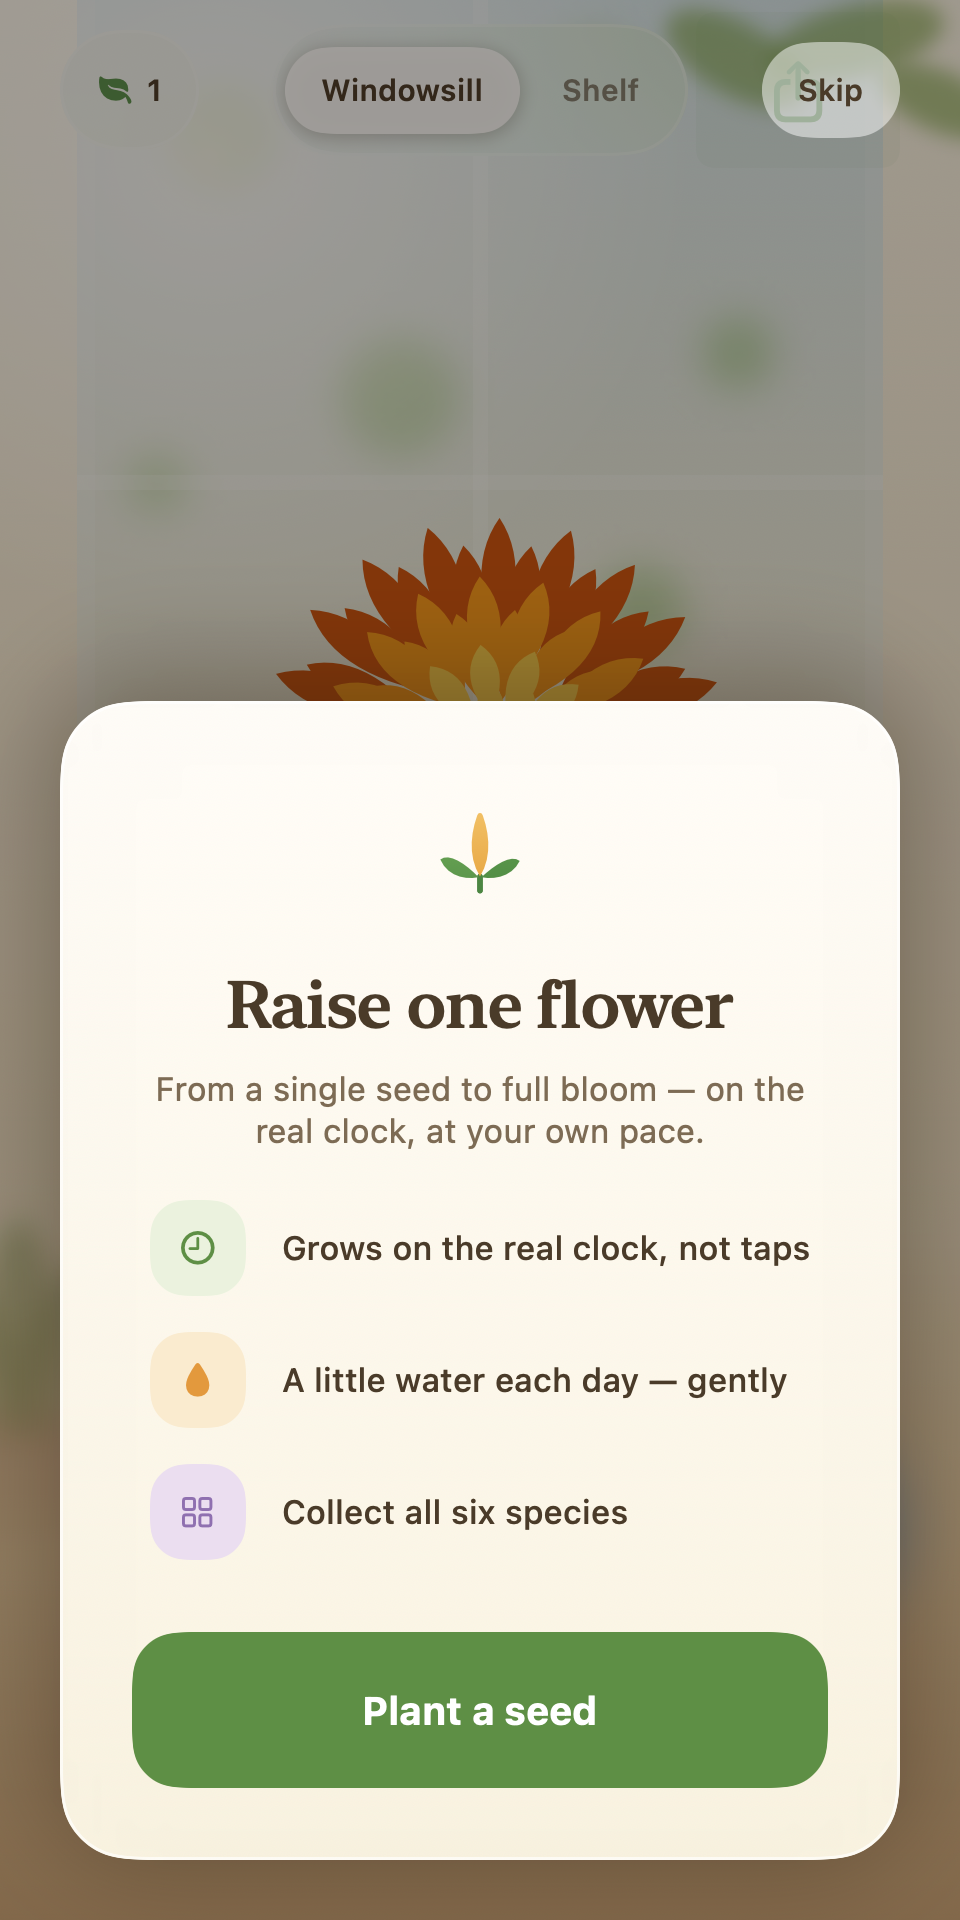
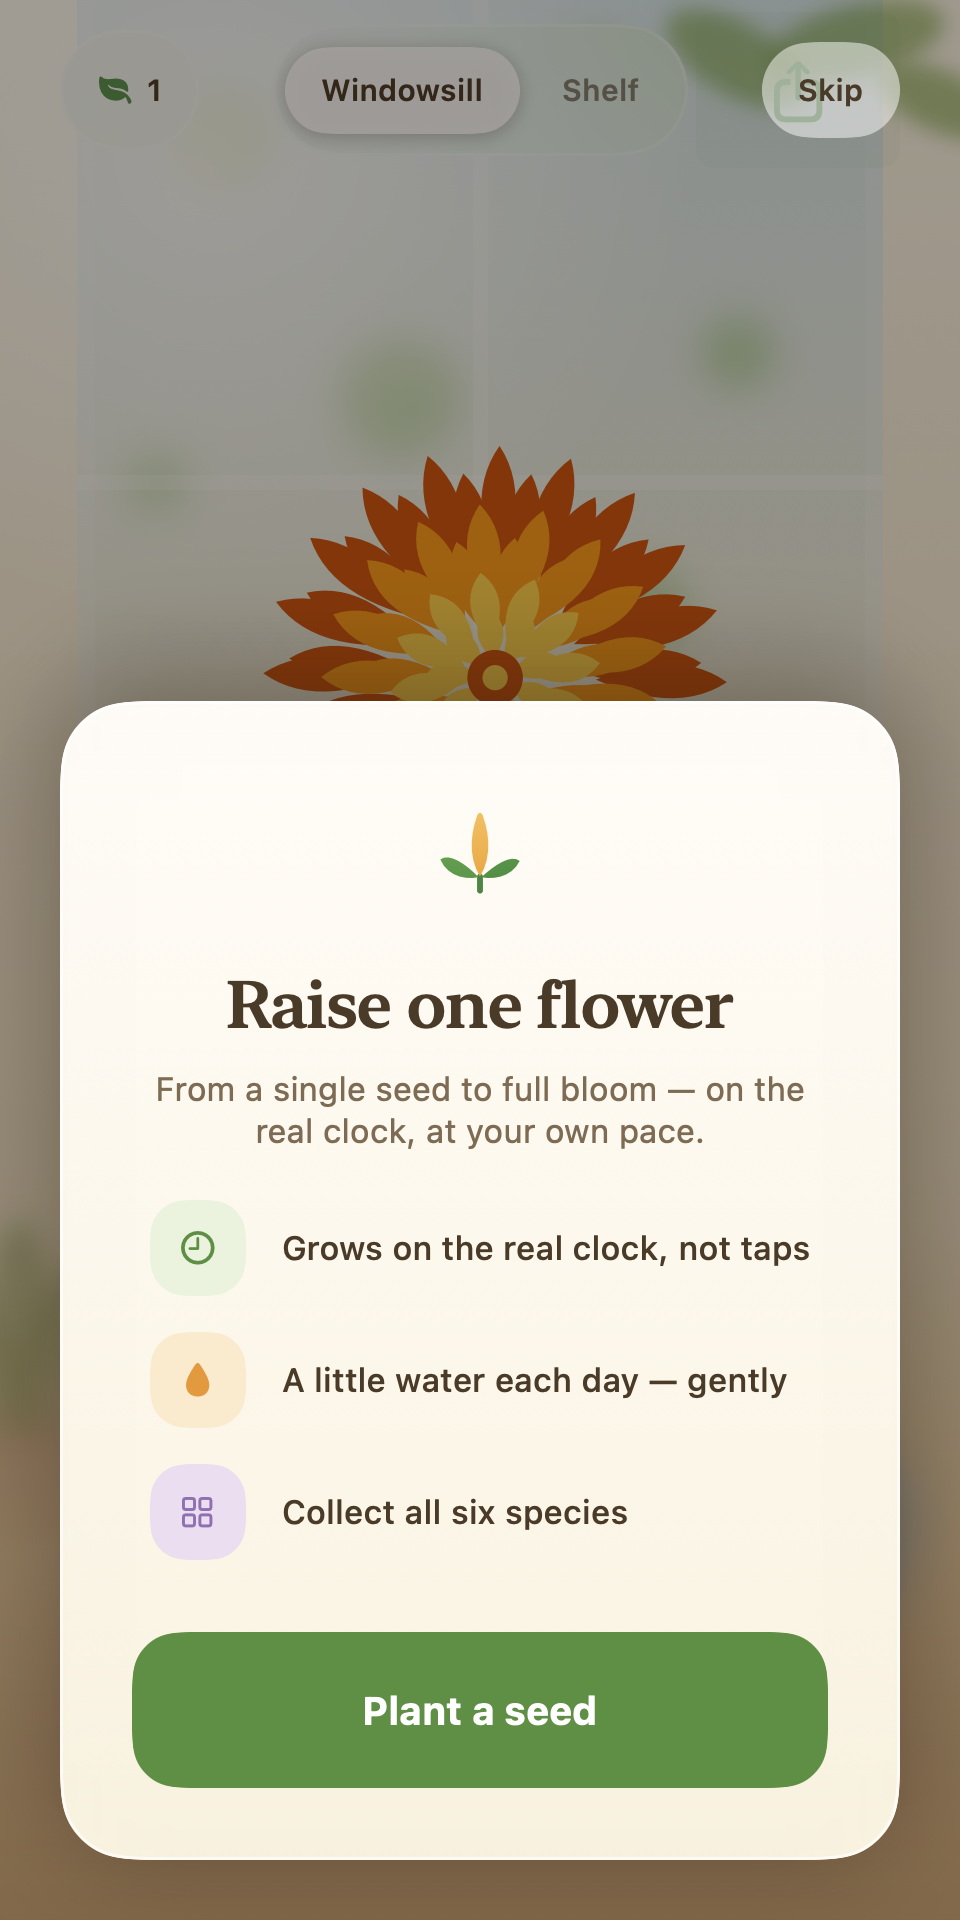
polish(ui): lift the plant 24pt clear of the name block; re-render refs

Changed region(s): [[0.2812, 0.2188, 0.75, 0.375]]

diff --git a/SsakApp/Sources/SsakApp/WindowsillView.swift b/SsakApp/Sources/SsakApp/WindowsillView.swift
@@ -50,7 +50,7 @@ public struct WindowsillView: View {
                     .ignoresSafeArea()
 
                 hero
-                    .position(x: geo.size.width / 2, y: geo.size.height * 0.80 - 170)
+                    .position(x: geo.size.width / 2, y: geo.size.height * 0.80 - 194)   // 24pt clear of the name block
 
                 chrome(height: geo.size.height)
                     .environment(\.colorScheme, chromeScheme)